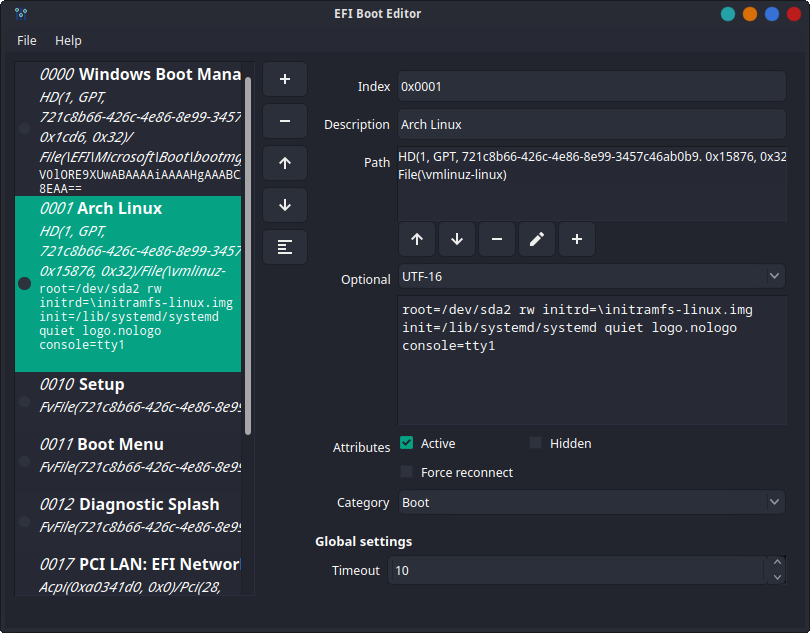
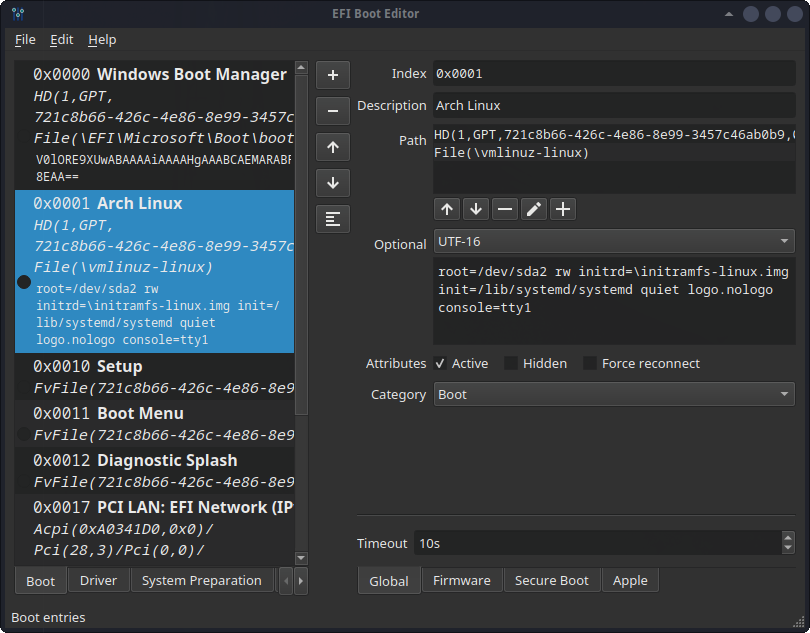
Update screenshot

diff --git a/README.md b/README.md
@@ -3,7 +3,7 @@
 Boot Editor for (U)EFI based systems.
 
 ![EFIBootEditor](doc/efibooteditor.png)
-![Device path dialog](doc/devicepathdialog.png)
+![File path dialog](doc/filepathdialog.png)
 
 ## Requirements
 
